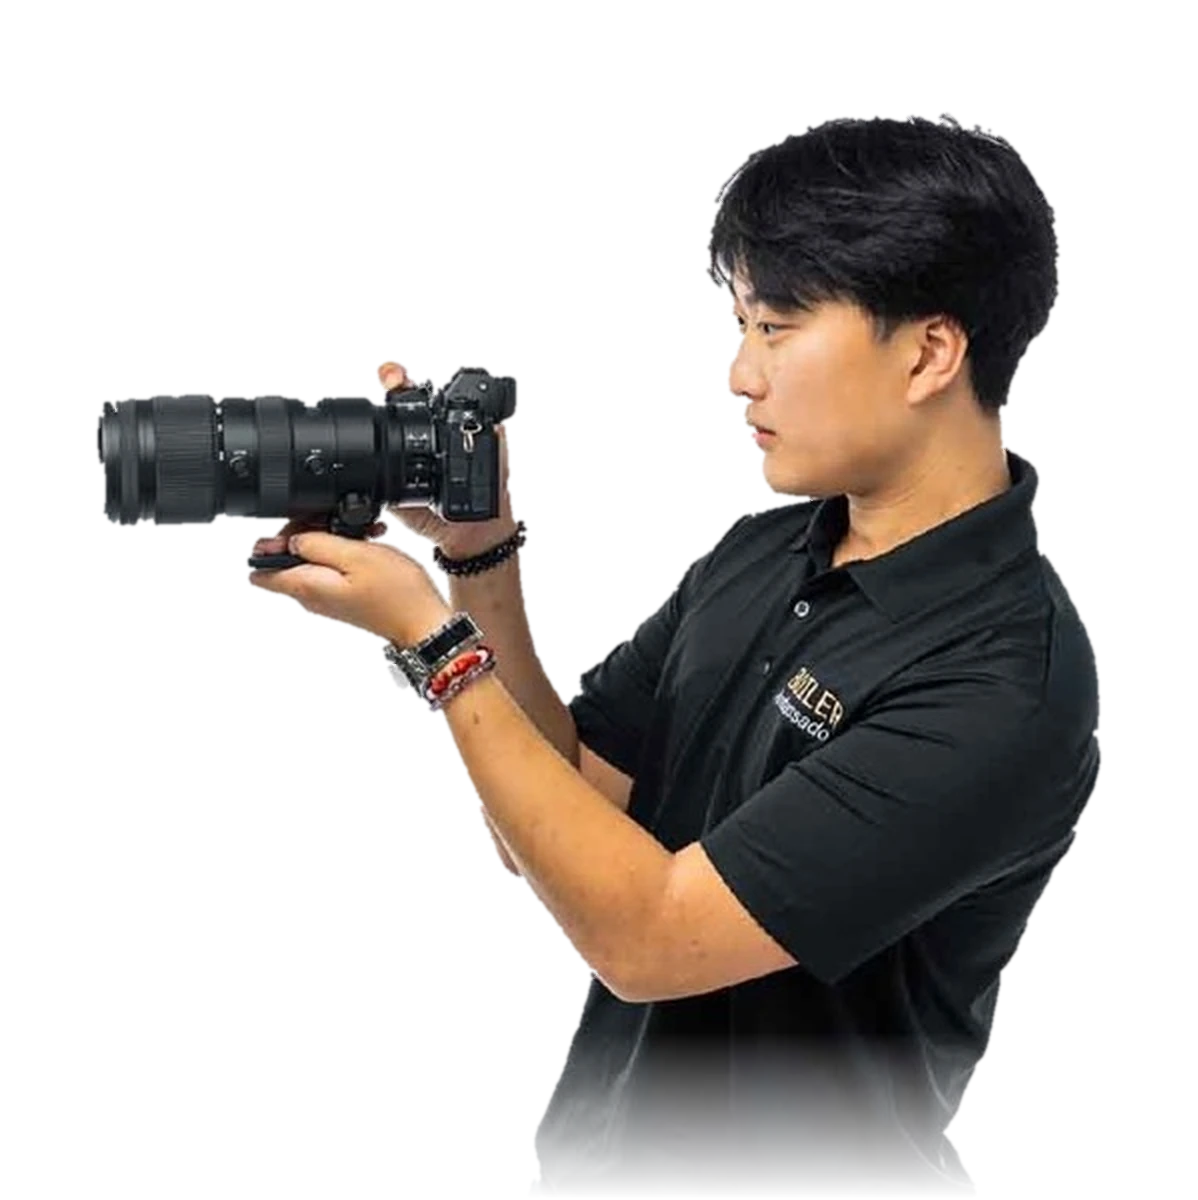
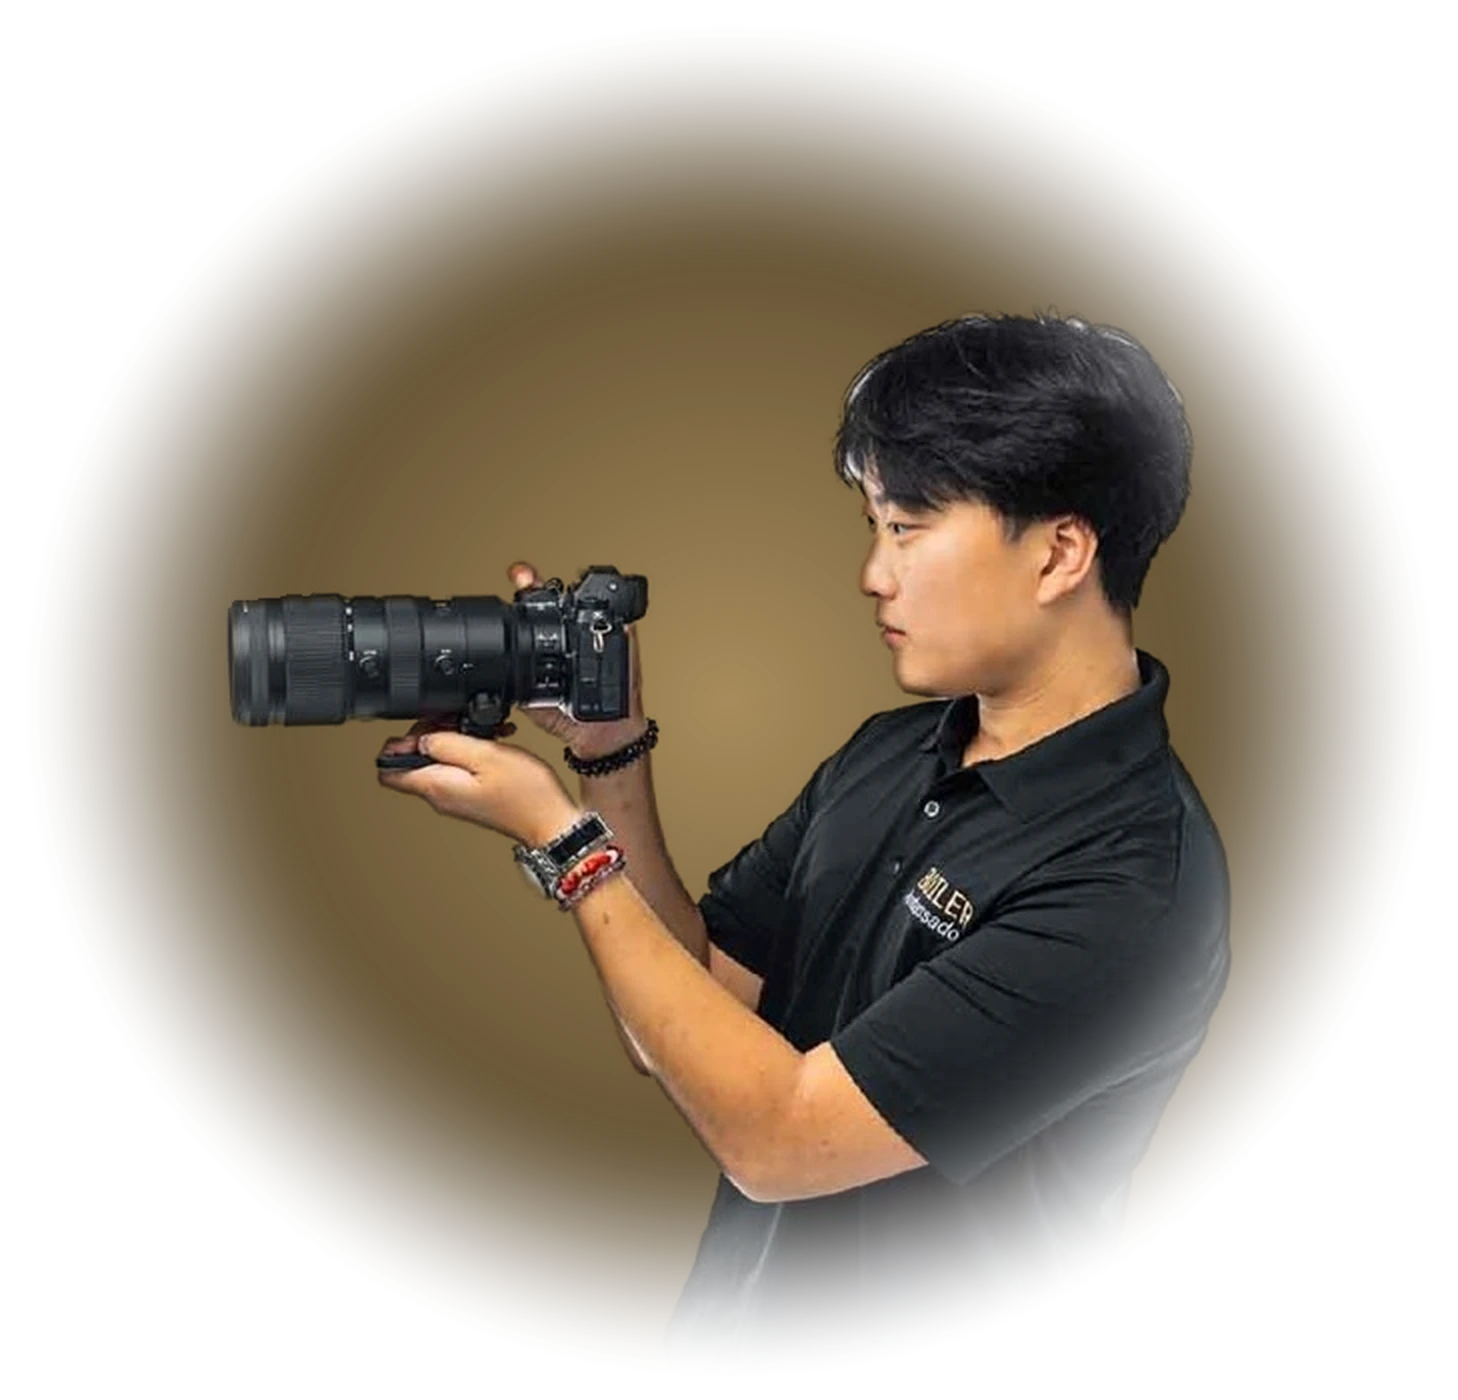
Blend Boiler Ambassador photo with soft circular gold fade
Claude-Session: https://claude.ai/code/session_01SMTZKL7XnNkPxzsVWSQbzG

diff --git a/index.html b/index.html
@@ -68,7 +68,7 @@ html.has-preloader .headline-line>span,html.has-preloader .profile-note{animatio
 </div></div>
 </article>
 <article class="experience-story campus-story" id="brand-studio" aria-labelledby="brand-studio-title">
-<div class="campus-story-visual"><img class="campus-story-photo campus-story-poster" src="./assets/boiler-ambassador-2026.webp" alt="Daniel in his Boiler Ambassadors polo, framing a shot with a camera and telephoto lens" width="1198" height="1200" loading="lazy"><div class="campus-story-signature"><img src="./assets/logos/purdue.jpg" alt="Purdue University" width="1600" height="800" loading="lazy"><span>Boiler Ambassador<br>Purdue Brand Studio</span></div></div>
+<div class="campus-story-visual"><img class="campus-story-photo campus-story-poster" src="./assets/boiler-ambassador-2026.webp" alt="Daniel in his Boiler Ambassadors polo, framing a shot with a camera and telephoto lens" width="1458" height="1400" loading="lazy"><div class="campus-story-signature"><img src="./assets/logos/purdue.jpg" alt="Purdue University" width="1600" height="800" loading="lazy"><span>Boiler Ambassador<br>Purdue Brand Studio</span></div></div>
 <div class="story-copy"><p class="eyebrow">Direction / Casting / Content</p><h3 id="brand-studio-title">Purdue Brand Studio</h3><p class="story-opening">A student’s perspective.<br>A hand in the whole production.</p><p>As a Boiler Ambassador and Social Media Content Creator, I make work for Purdue’s official channels alongside the university’s creative team.</p><p>I directed and cast a peer-to-peer recruitment campaign published across Instagram and Facebook. My other work includes residence tours, student stories, and a split-screen day in the life with Zach Leary.</p><a class="inline-link" href="#purdue-media">Watch the campaign &amp; films <span aria-hidden="true">↓</span></a><p class="story-date">August 2025 — Present</p></div>
 </article>
 <div class="experience-card-grid">

diff --git a/luxury.css b/luxury.css
@@ -275,7 +275,7 @@ body.effects-off .feature-card .feature-image{clip-path:none!important}
 .campus-story:before{z-index:2;border-color:#bda16b25}
 .campus-story-visual{position:relative;display:flex;flex-direction:column;min-width:0;background:#000}
 .campus-story-photo{width:100%;height:100%;min-height:300px;flex:1;object-fit:cover;object-position:50% 40%;filter:saturate(.75)}
-.campus-story-visual .campus-story-photo.campus-story-poster{object-fit:contain;object-position:50% 100%;filter:none;background:radial-gradient(ellipse 72% 66% at 60% 42%,#5a4c34 0%,#2c2519 48%,#000 100%)}
+.campus-story-visual .campus-story-photo.campus-story-poster{object-fit:contain;object-position:50% 50%;filter:none;background:#000}
 .campus-story-signature{display:flex;justify-content:center;align-items:center;gap:1rem;background:#000;padding:1.2rem}
 .campus-story-signature>img{width:135px;height:auto;flex:none}
 .campus-story-signature>span{color:#c8b68f;border-left:1px solid #bda16b60;padding-left:1rem;font-size:.8125rem;line-height:1.8}
